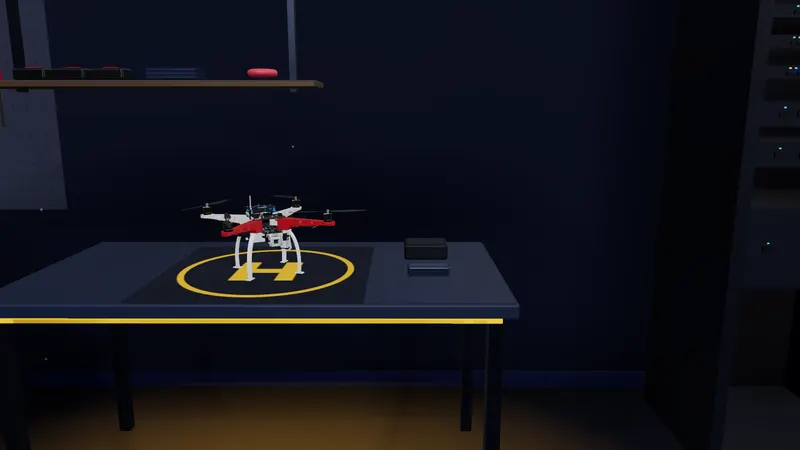
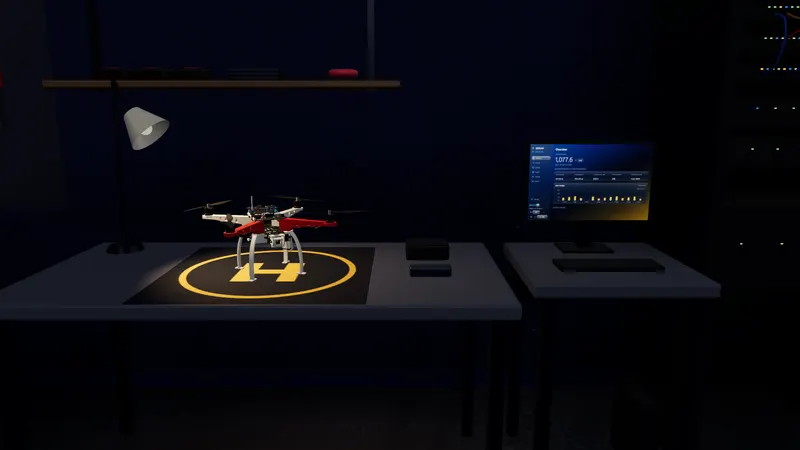
Studio: the five-panel wall fits beside its text at 1280, 1440 and 1920
Smaller panels a little closer together, and the camera turned a touch toward them: the top-right panel no longer
runs off the screen (its address was cut), and the first no longer slips behind the text at 1280 x 800. Read-mode
pictures of the wall, and of the drones and networks scenes (the software stand is now in their frames).

diff --git a/src/lib/studio/stations.ts b/src/lib/studio/stations.ts
@@ -457,7 +457,7 @@ export async function buildStations(ctx: StageContext, parent: Group, content: R
 	/* The wall: one panel per project, three above and two below, on an arc */
 	/* ================================================================== */
 	// The arc's centre is where the camera stands for this scene (scenes.ts), so every panel is the same distance away.
-	const arc = { x: 3.6, z: 1.0, r: 3.9, step: 0.235, y: 1.45, row: 0.7, scale: 0.68 };
+	const arc = { x: 3.6, z: 1.0, r: 3.9, step: 0.196, y: 1.45, row: 0.62, scale: 0.58 };
 	const wallBack = new Mesh(
 		new CylinderGeometry(arc.r + 0.2, arc.r + 0.2, 2.6, 48, 1, true, Math.PI / 2 - 0.6, 1.2),
 		new MeshStandardMaterial({ color: 0x0e1834, roughness: 0.9, side: DoubleSide }),

diff --git a/src/lib/studio/scenes.ts b/src/lib/studio/scenes.ts
@@ -51,7 +51,7 @@ export const SHOTS: Record<string, SceneShot> = {
 	 * 4 The wall: the curved wall of project panels at the end of the room, from the centre of its curve (stations.ts),
 	 * turned a little left so the panels sit to the right of the text.
 	 */
-	wall: { id: "wall", camera: [3.6, 1.45, 1.0], target: [8.6, 1.45, -0.2] },
+	wall: { id: "wall", camera: [3.6, 1.45, 1.0], target: [8.6, 1.45, -0.08] },
 	/** 5 Standards: the whiteboard and the shelf of binders, on the back wall (the board sits right of centre, clear of the card on the left). */
 	standards: { id: "standards", camera: [6.0, 1.5, 2.6], target: [6.0, 1.45, 6.4] },
 	/** 6 Timeline: the long window, a year on each pane. */
